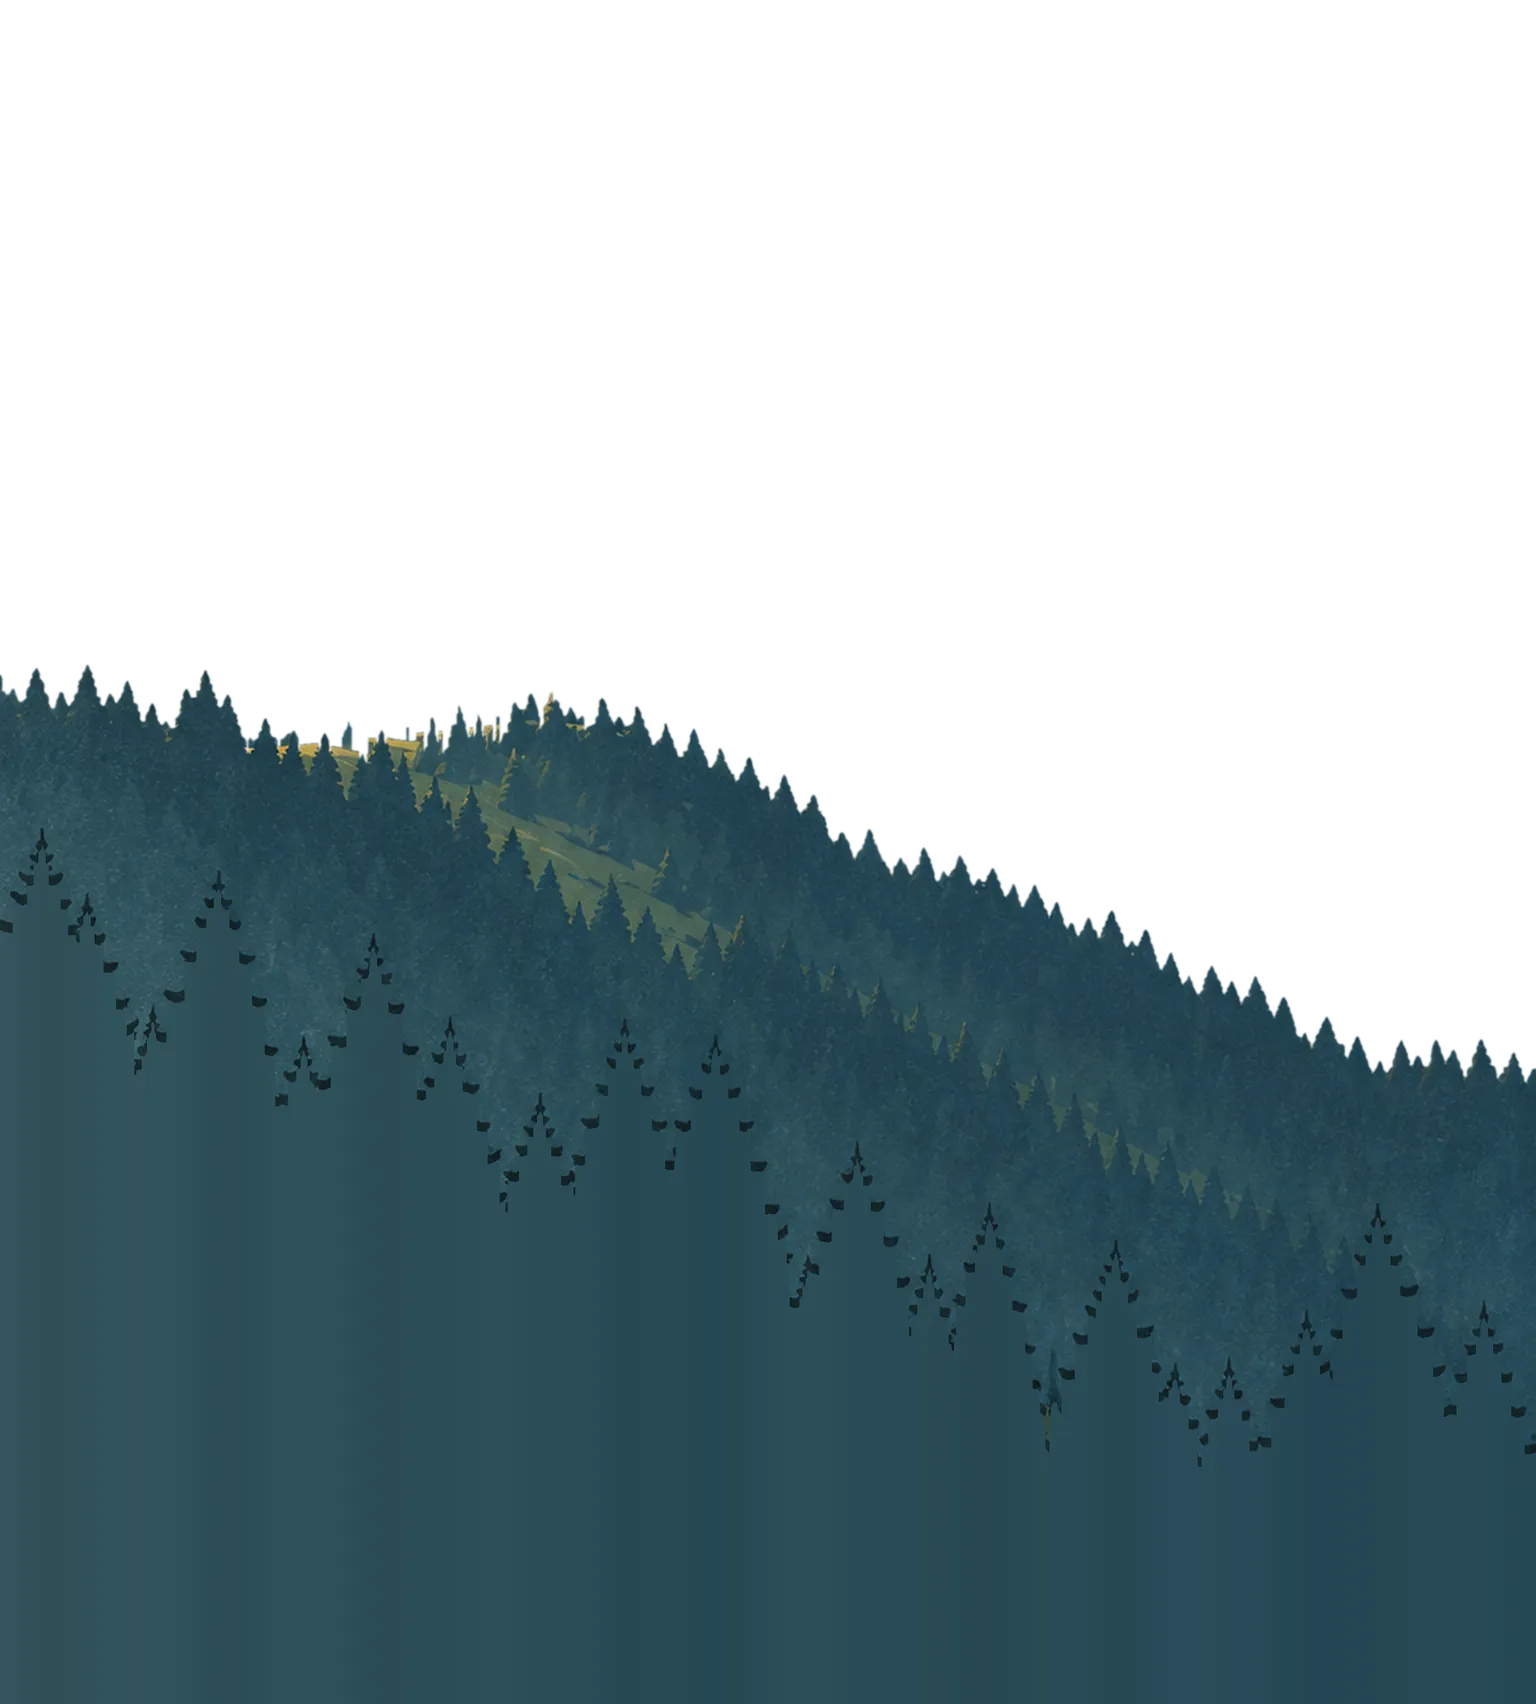
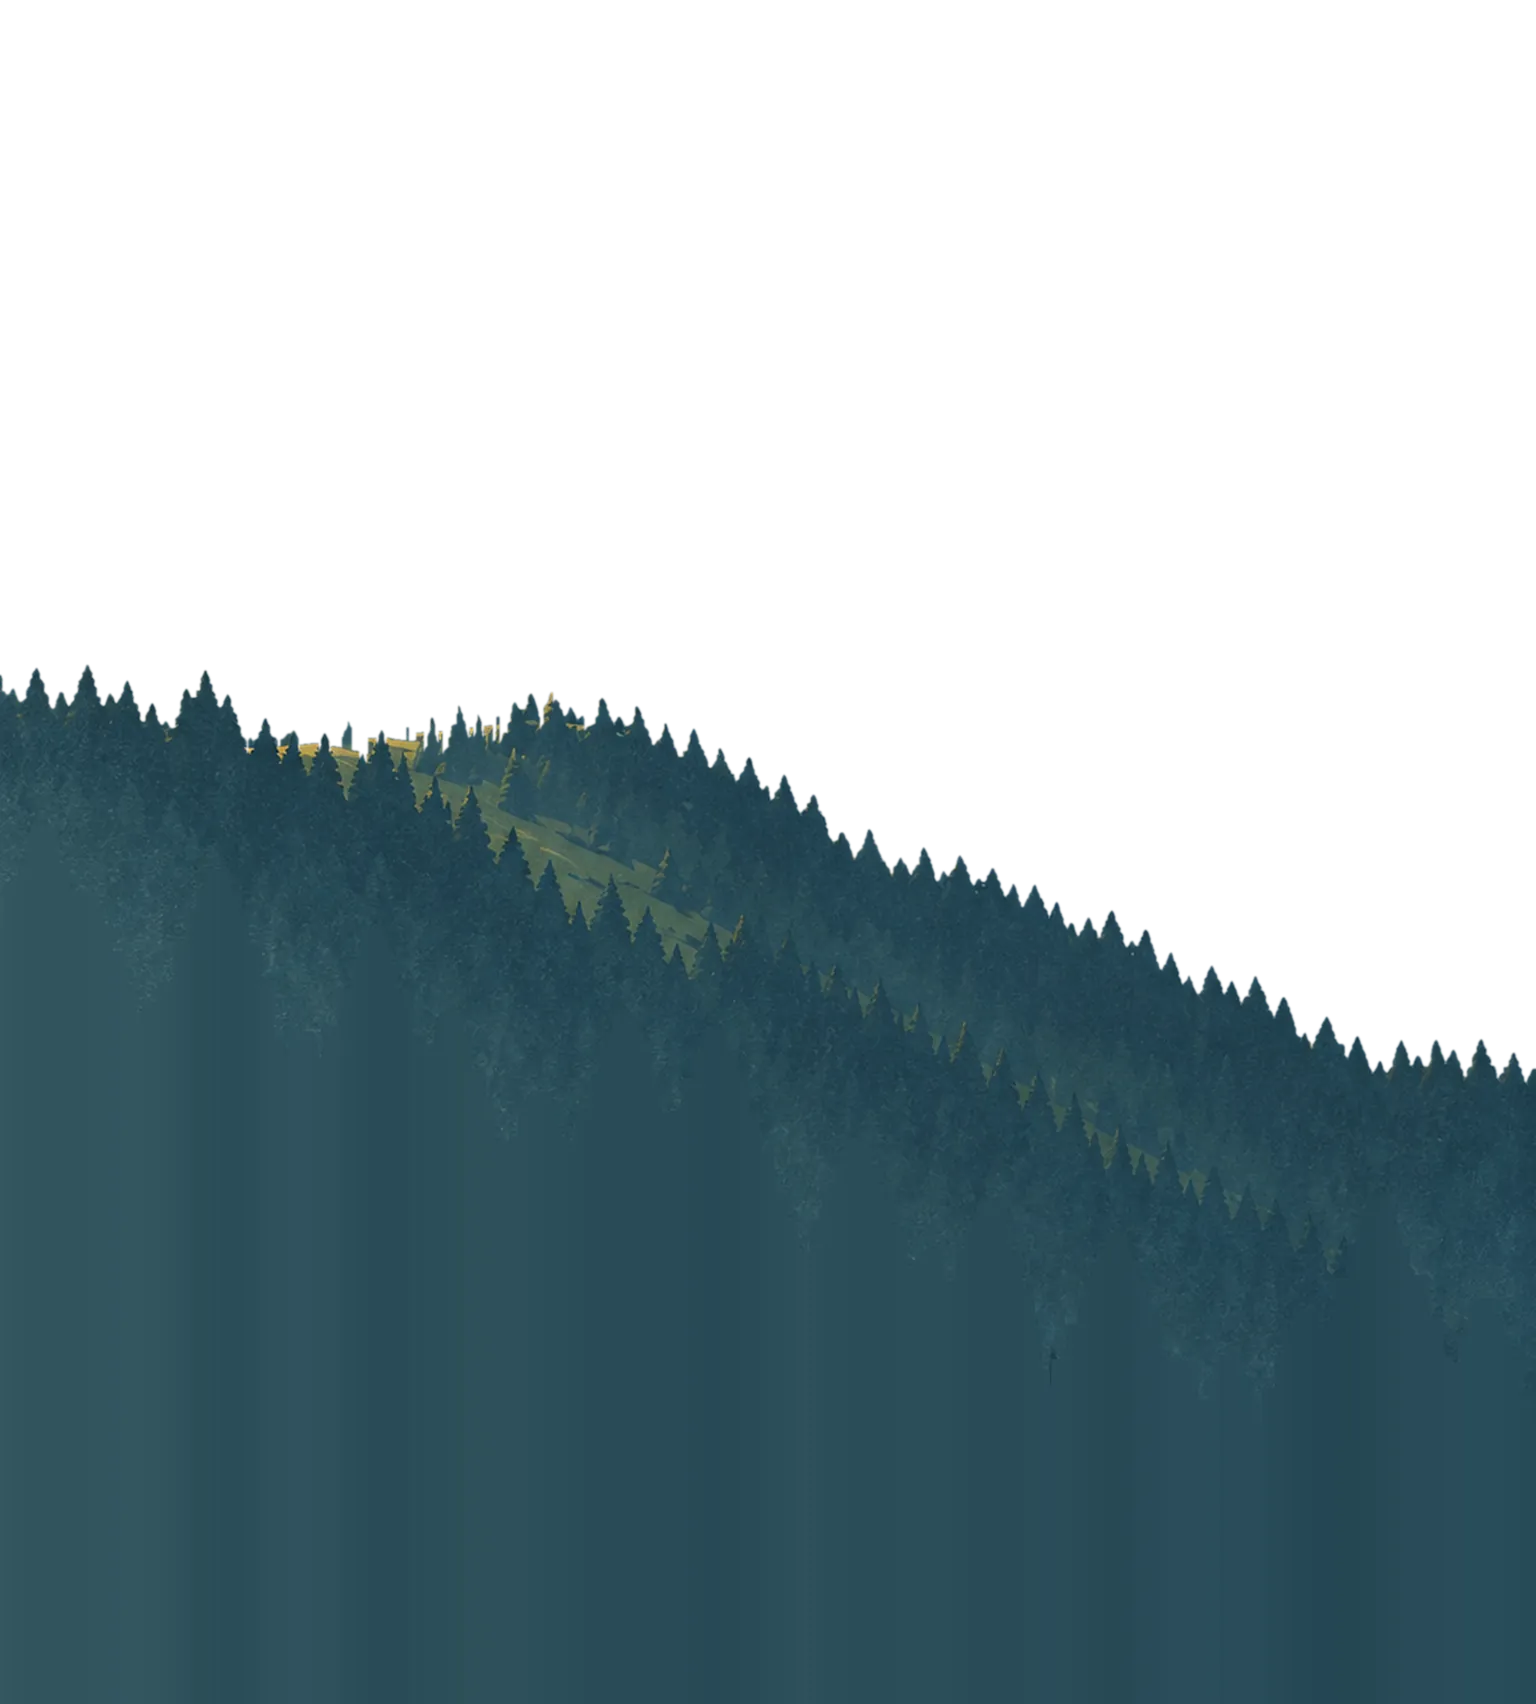
Webseite: keine Konturreste der vordersten Ebene mehr in den Szenen
Beim Zerlegen blieb in der Ebene direkt hinter der vordersten ein
schmaler Streifen der vordersten Tannen stehen. Am Desktop deckt die
vorderste Ebene das zu; auf Touch-Geräten wird sie durch die Kante des
nächsten Abschnitts ersetzt, und die Reste waren als gepunktete
Baumkonturen sichtbar. Diese Ebene wird nun schon knapp oberhalb der
vorderen Kontur aufgefüllt (split.py). Wald, Gipfel und Hügel neu
zerlegt und exportiert.

diff --git a/website/landscape-work/layers/split.py b/website/landscape-work/layers/split.py
@@ -79,8 +79,16 @@ def split(name, specs, sky=True):
     for i, spec in enumerate(specs):
         own = regions[i]
         if i > 0:
-            hidden = (np.arange(H)[:, None] >= (tops[i - 1] + int(6 * K))[None, :]) & own
-            rgb = fill_hidden(img, own, hidden, tops[i - 1])
+            if i == 1:
+                # The layer directly behind the nearest one is also shown WITHOUT it (on touch devices the nearest layer
+                # is replaced by the chapter's own edge). So nothing of the nearest layer may remain in it: it is filled
+                # in from just above the nearest layer's skyline, not from just below it.
+                edge = ndi.minimum_filter1d(tops[0], int(13 * K) | 1) - int(7 * K)
+                hidden = (np.arange(H)[:, None] >= edge[None, :]) & own
+                rgb = fill_hidden(img, own, hidden, edge)
+            else:
+                hidden = (np.arange(H)[:, None] >= (tops[i - 1] + int(6 * K))[None, :]) & own
+                rgb = fill_hidden(img, own, hidden, tops[i - 1])
         else: rgb = img
         alpha = ndi.gaussian_filter(own.astype(np.float32), .6 * K)
         rgba = np.dstack([rgb, alpha * 255]).clip(0, 255).astype(np.uint8)
